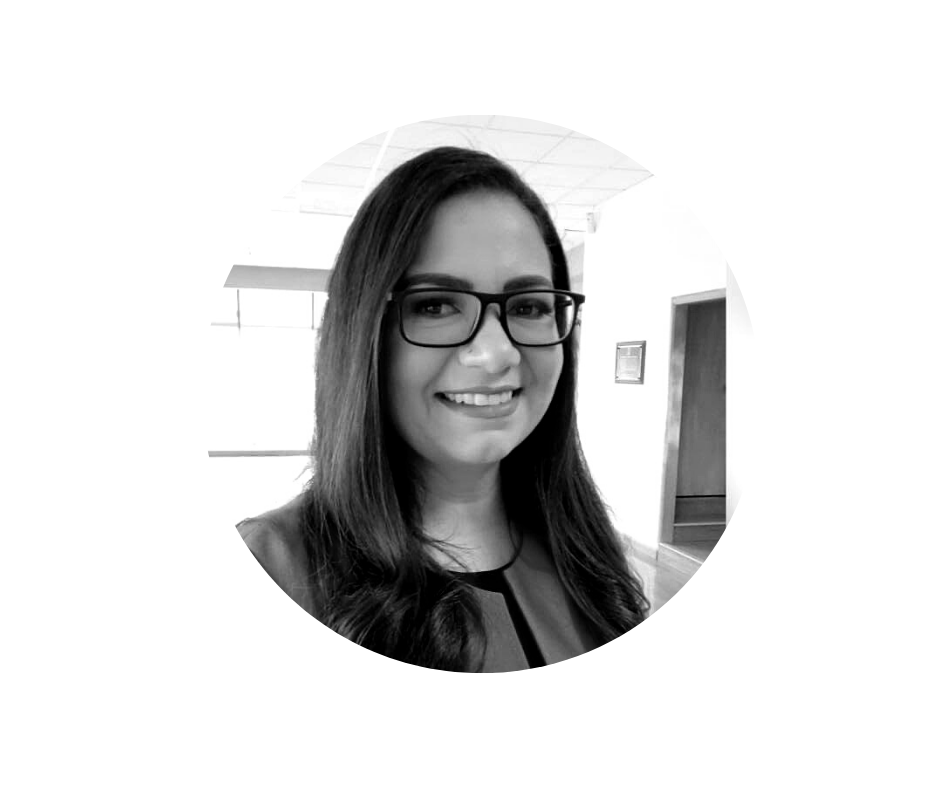
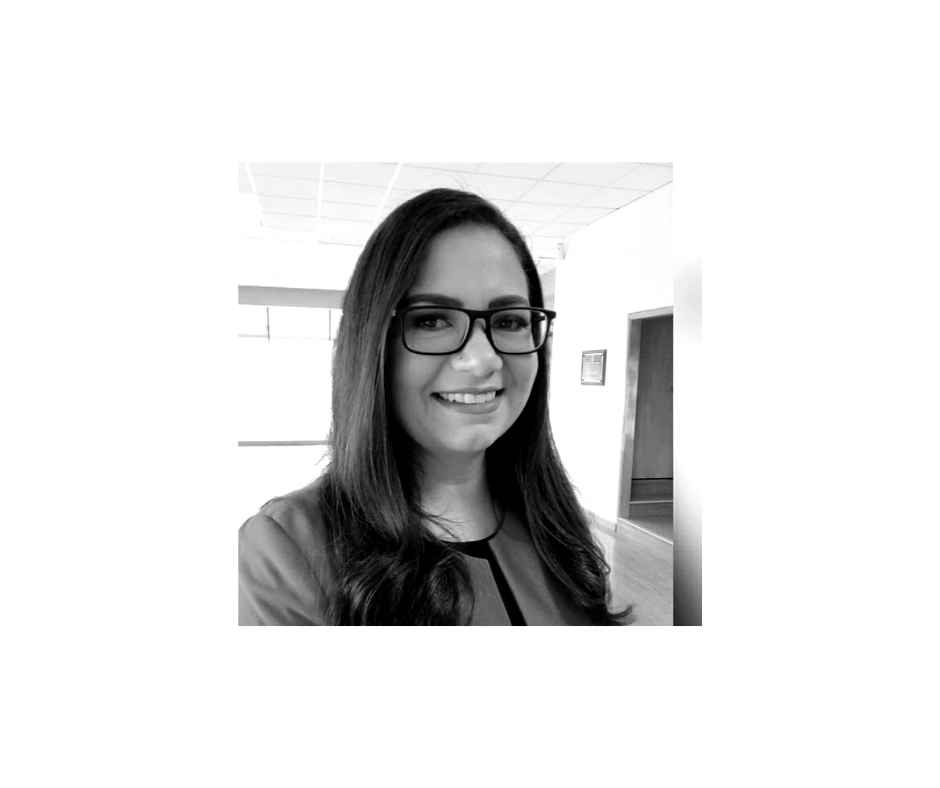
otra modificacion

Changed region(s): [[0.216, 0.1523, 0.8021, 0.8528], [0.5862, 0.1523, 0.617, 0.1827]]

diff --git a/index.html b/index.html
@@ -110,6 +110,7 @@
                     <h2 class="section-heading text-uppercase">Quiénes somos</h2>
                 </div>
             </div>
+
             <div class="row">
                 <div class="col-md-4 text-center quienes-somos-box">
                     <a href="/quienes-somos/carlos-alberto-arredondo-sibaja/">
@@ -117,22 +118,26 @@
                         <h5 class="service-heading">C. Carlos Alberto Arredondo Sibaja</h5>
                     </a>
                 </div>
+
+
                 <div class="col-md-4 text-center quienes-somos-box">
                     <a href="/quienes-somos/jesus-contreras-garcia/">
                         <img class="rounded-circle img-fluid quienes-somos-image" src="/quienes-somos/jesus-contreras-garcia/jesus-contreras-garcia.jpg" alt="C. Jesús Contreras García">
                         <h5 class="service-heading">C. Jesús Contreras García</h5>
                     </a>
                 </div>
+
+
                 <div class="col-md-4 text-center quienes-somos-box">
                     <a href="#">
-                        <img class="rounded-circle img-fluid quienes-somos-image" src="/quienes-somos/hector-alejandro-gil-muller/1.png" alt="C. Héctor Alejandro Gil Muller">
-                        <h5 class="service-heading">C. Carolina Torres</h5>
+                        <img class="rounded-circle img-fluid quienes-somos-image" src="/quienes-somos/hector-alejandro-gil-muller/1.jpg" alt="C. Héctor Alejandro Gil Muller">
+                        <h5 class="service-heading">C. Carolina Guadalupe Torres Martínez</h5>
                     </a>
                 </div>
                 <div class="col-md-4 text-center quienes-somos-box">
                     <a href="#">
-                        <img class="rounded-circle img-fluid quienes-somos-image" src="/quienes-somos/eiko-gavaldon/4.png" alt="C. Eiko Gavaldon">
-                        <h5 class="service-heading">C. Karla Vlades</h5>
+                        <img class="rounded-circle img-fluid quienes-somos-image" src="/quienes-somos/eiko-gavaldon/4.jpg" alt="C. Eiko Gavaldon">
+                        <h5 class="service-heading">C. Karla Patricia Valdés García</h5>
                     </a>
                 </div>
                 <div class="col-md-4 text-center quienes-somos-box">
@@ -143,8 +148,8 @@
                 </div>
                 <div class="col-md-4 text-center quienes-somos-box">
                     <a href="#">
-                        <img class="rounded-circle img-fluid quienes-somos-image" src="/quienes-somos/luis-fernando-garcia-abusaid/2.png" alt="C. Luis Fernando García Abusaíd">
-                        <h5 class="service-heading">C. Narciso Caballero</h5>
+                        <img class="rounded-circle img-fluid quienes-somos-image" src="/quienes-somos/luis-fernando-garcia-abusaid/2.jpg" alt="C. Luis Fernando García Abusaíd">
+                        <h5 class="service-heading">C. Narciso Caballero López</h5>
                     </a>
                 </div>
                 <div class="col-md-4 text-center quienes-somos-box">
@@ -161,8 +166,8 @@
                 </div>
                 <div class="col-md-4 text-center quienes-somos-box">
                     <a href="#">
-                        <img class="rounded-circle img-fluid quienes-somos-image" src="/quienes-somos/luis-alfonso-carrillo-gonzalez/3.png" alt="C. Vicky Jasso">
-                        <h5 class="service-heading">C. Vicky Jasso</h5>
+                        <img class="rounded-circle img-fluid quienes-somos-image" src="/quienes-somos/luis-alfonso-carrillo-gonzalez/3.jpg" alt="C. Vicky Jasso">
+                        <h5 class="service-heading">C. Martha Virginia Jasso Oyervides</h5>
                     </a>
                 </div>
             </div>
